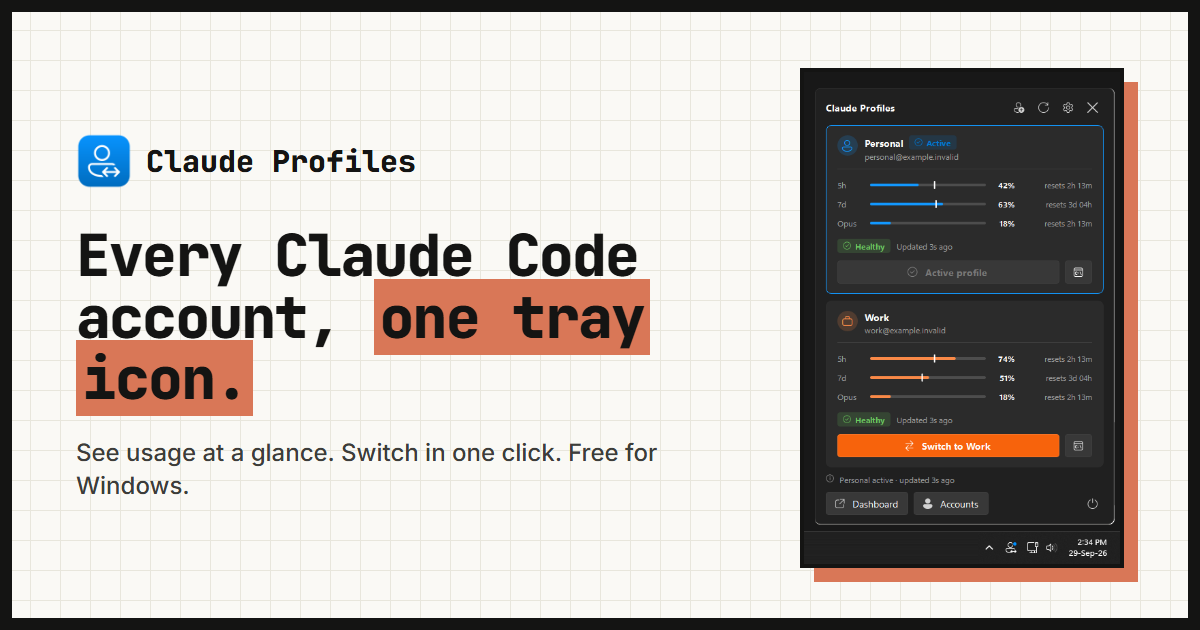
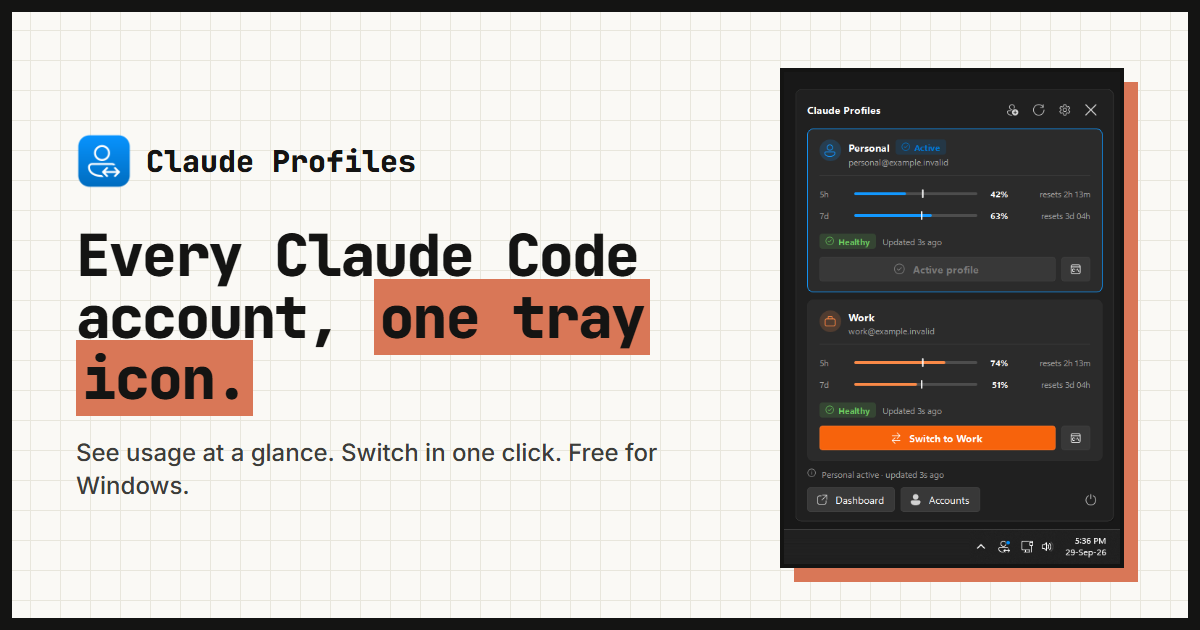
Site: screenshots that match the real app
Recaptured from v0.3.1, whose demo no longer shows an Opus row under
every account. The hero is again a real capture of the tray and flyout
(two accounts); the dashboard below it and the link preview are updated
to match, and now show realistic "ahead of" and "within pace" states.

Changed region(s): [[0.6475, 0.0905, 0.925, 0.9349]]

diff --git a/site/index.html b/site/index.html
@@ -158,7 +158,7 @@
     </div>
 
     <figure class="tray-shot">
-      <img src="assets/shots/tray.png" width="464" height="723" alt="The Claude Profiles icon in the Windows 11 taskbar, with its flyout open above it showing a Personal and a Work account. Each has 5-hour and 7-day usage bars with a white pace marker: Personal's 5-hour usage sits short of its marker, Work's runs past it.">
+      <img src="assets/shots/tray.png" width="464" height="679" alt="The Claude Profiles icon in the Windows 11 taskbar, with its flyout open above it showing a Personal and a Work account. Each has 5-hour and 7-day usage bars with a white pace marker: Personal's 5-hour usage sits short of its marker, Work's runs past it.">
       <figcaption>The real tray icon and flyout on Windows 11. The white line on each bar is your pace. Demo data.</figcaption>
     </figure>
   </div>
